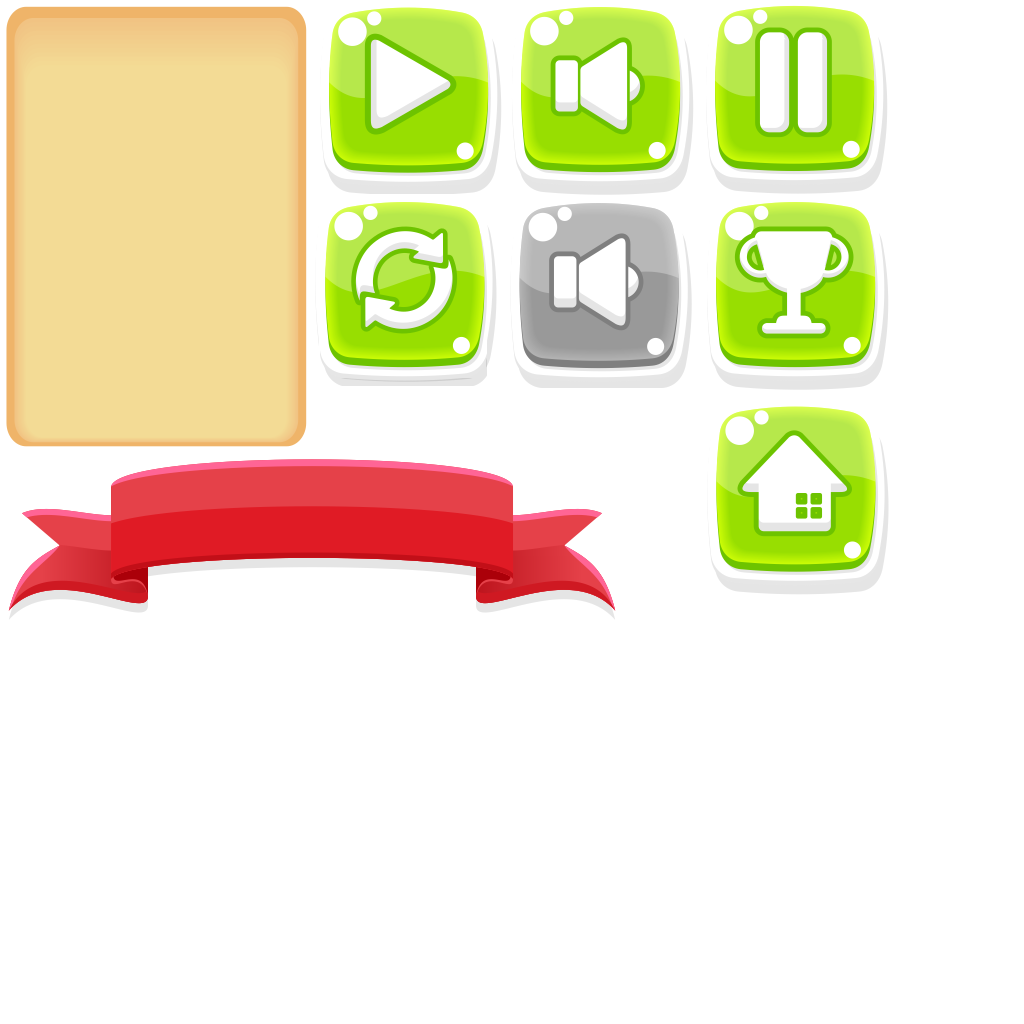
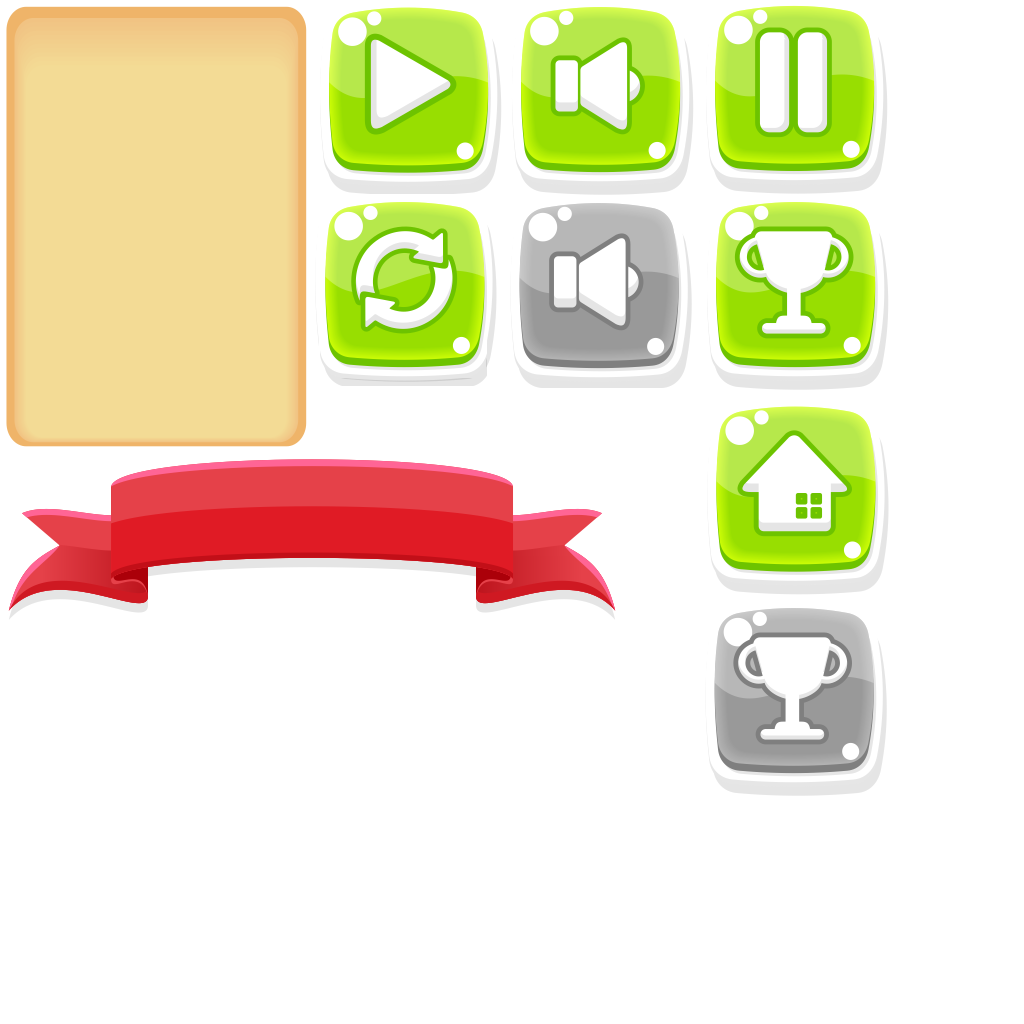
disable leaderboard button if not signed in

Changed region(s): [[0.6875, 0.5938, 0.875, 0.7812]]

diff --git a/Assets/IntoTheAbyss/Scripts/UI/PagesControllers/Menu.cs b/Assets/IntoTheAbyss/Scripts/UI/PagesControllers/Menu.cs
@@ -2,6 +2,8 @@ using System;
 
 using IntoTheAbyss.Game;
 
+using Unity.Services.Authentication;
+
 using UnityEngine;
 using UnityEngine.UIElements;
 
@@ -32,6 +34,7 @@ namespace IntoTheAbyss.UI {
         private const string c_retryClass = "retry";
         private const string c_soundOffClass = "sound-off";
         private const string c_leaderboardButtonId = "leaderboard__button";
+        private const string c_signinClass = "signin";
 
         public void Show(bool _isRetry = true) {
             m_document.rootVisualElement.style.display = DisplayStyle.Flex;
@@ -68,16 +71,23 @@ namespace IntoTheAbyss.UI {
             m_leaderboardBtn.clicked += SwitchToLeaderboard;
 
             Show(false);
+
+            PlayServices.OnSignIn += TurnOnSignIn;
         }
 
         private void OnDestroy() {
             m_retryBtn.clicked -= Retry;
             m_soundBtn.clicked -= TurnSound;
             m_leaderboardBtn.clicked -= SwitchToLeaderboard;
+            PlayServices.OnSignIn -= TurnOnSignIn;
         }
 
         private void Retry() {
             OnRetry?.Invoke();
+        }
+
+        private void TurnOnSignIn() {
+            m_popup.AddToClassList(c_signinClass);
         }
 
         private void TurnSound() {
@@ -90,7 +100,8 @@ namespace IntoTheAbyss.UI {
         }
 
         private void SwitchToLeaderboard() {
-            m_uiPages.ShowLeaderboard();
+            if (AuthenticationService.Instance.IsSignedIn)
+                m_uiPages.ShowLeaderboard();
         }
     }
 }

diff --git a/Assets/IntoTheAbyss/Scripts/Services/PlayServices.cs b/Assets/IntoTheAbyss/Scripts/Services/PlayServices.cs
@@ -8,6 +8,8 @@ using System.Threading.Tasks;
 
 namespace IntoTheAbyss {
     public class PlayServices : MonoBehaviour {
+        public static Action OnSignIn = null;
+
         public string Token;
 
         private void Awake() {
@@ -50,7 +52,7 @@ namespace IntoTheAbyss {
             AuthenticationService.Instance.SignedIn += () => {
                 Debug.Log($"{nameof(PlayServices)} PlayerID: {AuthenticationService.Instance.PlayerId}");
                 Debug.Log($"{nameof(PlayServices)} Access Token: {AuthenticationService.Instance.AccessToken}");
-
+                OnSignIn?.Invoke();
             };
 
             AuthenticationService.Instance.SignInFailed += err => Debug.LogError($"{nameof(PlayServices)} {err}");
